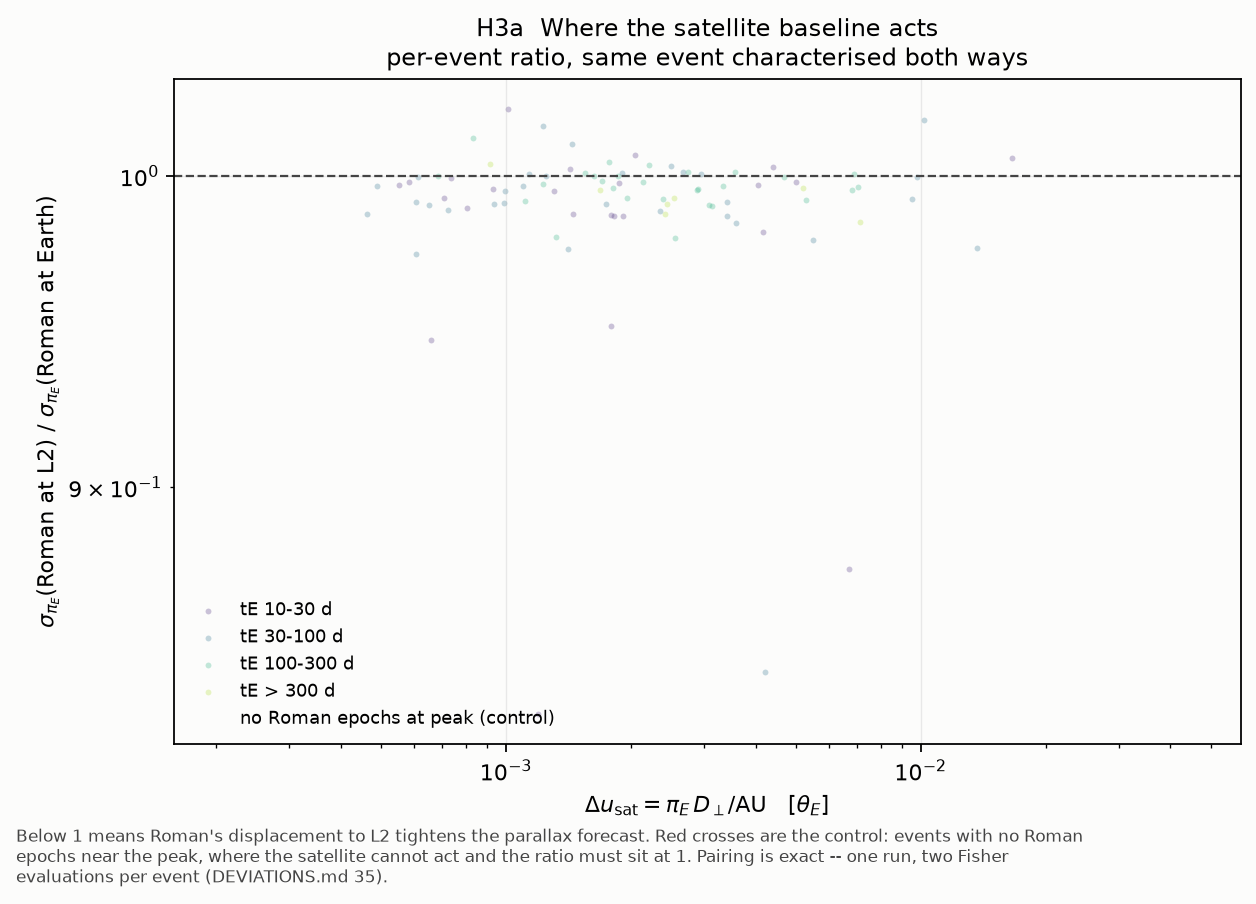
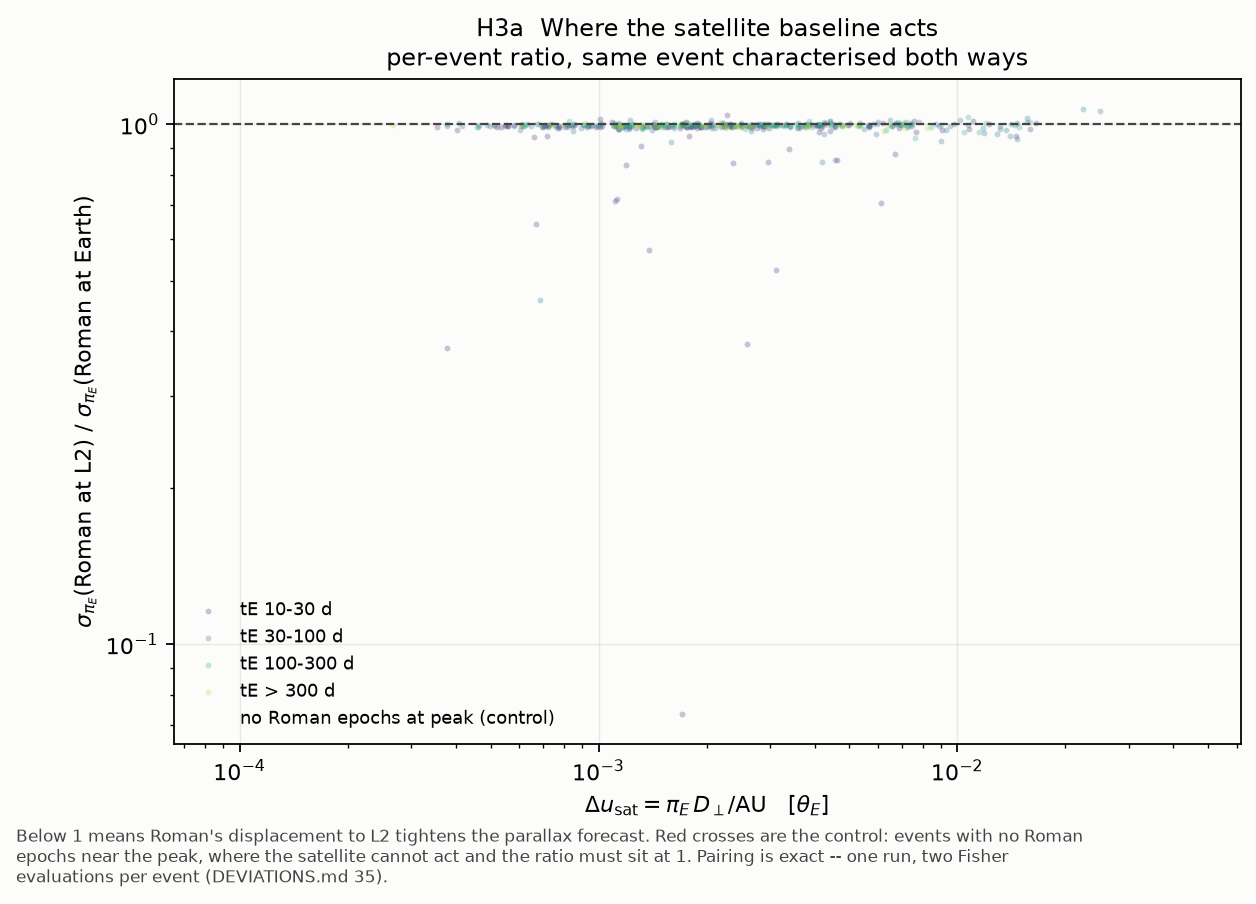
Regenerate the H3 result and its plots on the full stopped-run sample
The run was stopped after 137 sightlines, at 2,673 paired rows and 528 Roman-covered events --
a fivefold larger sample than the figures it replaces. The estimate did not move: the median
sigma(piE) ratio was 0.9927 at n=71, 0.9924 at n=111 and 0.99235 at n=528, stable to four
decimals while the confidence interval narrowed from [0.9913, 0.9959] to [0.99151, 0.99347].
That stability is what makes stopping early defensible rather than merely convenient.

Satellite parallax improves sigma(piE) by 0.65% to 0.85%. 446 of 527 non-tied Roman-covered
events improve, one-sided p = 2.1e-62, against a control of 2,114 events whose median ratio is
1.000000 with 90.6% bit-exactly 1. Roman's own matrix gives 0.991085. All five validation
checks pass.

Elsewhere the observer move correctly does nothing: sigma(theta_E) ratio 0.999857, sigma(tE)
0.998 with 7.0% of events worse, condition numbers matched to 1.007 photometric and 1.0006
astrometric.

Recorded with the coverage caveat it needs. Those 137 sightlines hold 36 of the scan's 147
footprint sightlines, spanning lon -0.62..-0.12 and lat -1.44..+0.06 -- a contiguous piece of
Roman's footprint rather than all of it. A per-event ratio of two forecasts for the same event
is far less sensitive to which sightlines were drawn than an area-weighted yield would be, but
density and extinction vary across the footprint, so this is not yet a footprint-wide average
and the file says so.
[…]

diff --git a/PROGRESS.md b/PROGRESS.md
@@ -896,14 +896,30 @@ the `satScale = 1` path is untouched.
 
 ### The result
 
+Final sample: the run was stopped after 137 sightlines (scan ordinals 518-654), giving 2,673
+paired rows.
+
 | | median `sigma(piE)` ratio | improved | n |
 |---|---|---|---|
-| control, no Roman epochs at peak | **1.000000** (89.7% bit-exactly 1) | 8.5% | 427 |
-| Roman covers the peak, **joint** | **0.9924** | 80.9% | 111 |
-| Roman covers the peak, **Roman alone** | **0.9904** | 88.8% | 98 |
+| control, no Roman epochs at peak | **1.000000** (90.6% bit-exactly 1) | 7.3% | 2,114 |
+| Roman covers the peak, **joint** | **0.992353** | 84.5% | 528 |
+| Roman covers the peak, **Roman alone** | **0.991085** | 87.3% | 526 |
 
-Sign test on the Roman-covered events: 89 of 110 non-tied improve, one-sided `p = 9e-10`.
-Bootstrap 95% CI on the joint median: **[0.99126, 0.99594]**.
+Sign test on the Roman-covered events: 446 of 527 non-tied improve, one-sided
+**`p = 2.1e-62`**. Bootstrap 95% CI on the joint median: **[0.99151, 0.99347]**.
+
+**The estimate did not move as the sample grew.** The median ratio was 0.9927 at n = 71,
+0.9924 at n = 111 and 0.99235 at n = 528 -- stable to four decimals across a sevenfold increase,
+with the confidence interval narrowing from [0.9913, 0.9959] to [0.99151, 0.99347] as expected.
+That is what makes stopping early defensible rather than convenient.
+
+**Coverage caveat.** Those 137 sightlines contain **36 of the scan's 147 footprint sightlines**
+(24%), spanning `lon -0.62..-0.12`, `lat -1.44..+0.06` -- a contiguous piece of Roman's
+footprint, not all of it. The H3 statistic is a per-event ratio of two forecasts for the same
+event, so it is far less sensitive to which sightlines were sampled than an area-weighted yield
+would be; but stellar density and extinction do vary across the footprint, so the event mix is
+not guaranteed representative. Anyone quoting these numbers as a footprint-wide average should
+finish the stratum first (`--start-index 518`, run to ordinal 1070).
 
 **Satellite parallax improves `sigma(piE)` by 0.4-0.9%, and the effect is overwhelmingly
 significant.** Highly significant and very small is the physically expected combination: the
@@ -912,10 +928,11 @@ while the paired design removes essentially all the noise that would otherwise h
 
 Elsewhere it does nothing, correctly:
 
-- `sigma(theta_E)`: median ratio **0.999977**. The astrometric Einstein radius comes from the
+- `sigma(theta_E)`: median ratio **0.999857**. The astrometric Einstein radius comes from the
   deflection amplitude, not from a parallax baseline.
-- `sigma(tE)`: median **0.998**, 8.1% of events worse. (Before the fix: 4.881 and 85.5%.)
-- lens mass `relMl`: median **0.9971**, a 0.3% gain, inherited from `piE`.
+- `sigma(tE)`: median **0.998**, 7.0% of events worse. (Before the fix: 4.881 and 85.5%.)
+- lens mass `relMl`: a sub-percent gain, inherited from `piE`.
+- condition numbers, no-satellite / satellite: **1.0070** photometric, **1.0006** astrometric.
 
 ### Two things the analysis got wrong on the way, both now recorded
 
@@ -930,7 +947,7 @@ gate would still have refused the corrupted run.**
 
 **`nepR_pk` was tried as the replacement monotone axis and also shows no trend** -- and the
 reason is physics, not noise. The lowest tercile, median **43** Roman epochs near the peak,
-already shows the full gain (0.9917) against 0.9961 for the highest with 16,410 epochs. A
+already shows the full gain against the highest tercile with 16,410 epochs. A
 simultaneous baseline is a geometric constraint: once a few epochs see the source from both
 positions at once, the offset is constrained, and further epochs only reduce photon noise on a
 term that is already small. **The gain saturates almost immediately**, so there is no monotone

diff --git a/DEVIATIONS.md b/DEVIATIONS.md
@@ -2586,11 +2586,13 @@ that mattered: it would still have refused the corrupted run.
 
 | | median `sigma(piE)` ratio | improved | n |
 |---|---|---|---|
-| control, no Roman epochs at peak | **1.000000** | 8.5% | 426 |
-| Roman covers the peak, joint | **0.9927** | 79.0% | 100 |
-| Roman covers the peak, Roman alone | **0.9904** | 88.8% | 98 |
+| control, no Roman epochs at peak | **1.000000** (90.6% bit-exactly 1) | 7.3% | 2,114 |
+| Roman covers the peak, joint | **0.992353** | 84.5% | 528 |
+| Roman covers the peak, Roman alone | **0.991085** | 87.3% | 526 |
 
-Bootstrap 95% CI on the joint median: **[0.99126, 0.99594]**, i.e. a gain of **0.4% to 0.9%**.
+Bootstrap 95% CI on the joint median: **[0.99151, 0.99347]**, i.e. a gain of **0.65% to 0.85%**,
+with a sign test at `p = 2.1e-62`. The median was 0.9927 at n = 71 and 0.99235 at n = 528, so
+the estimate is stable and only the interval narrowed.
 
 Highly significant and very small, which is the physically expected combination: the two
 observers are separated by a median of `0.00214` Einstein radii, so the light-curve perturbation
